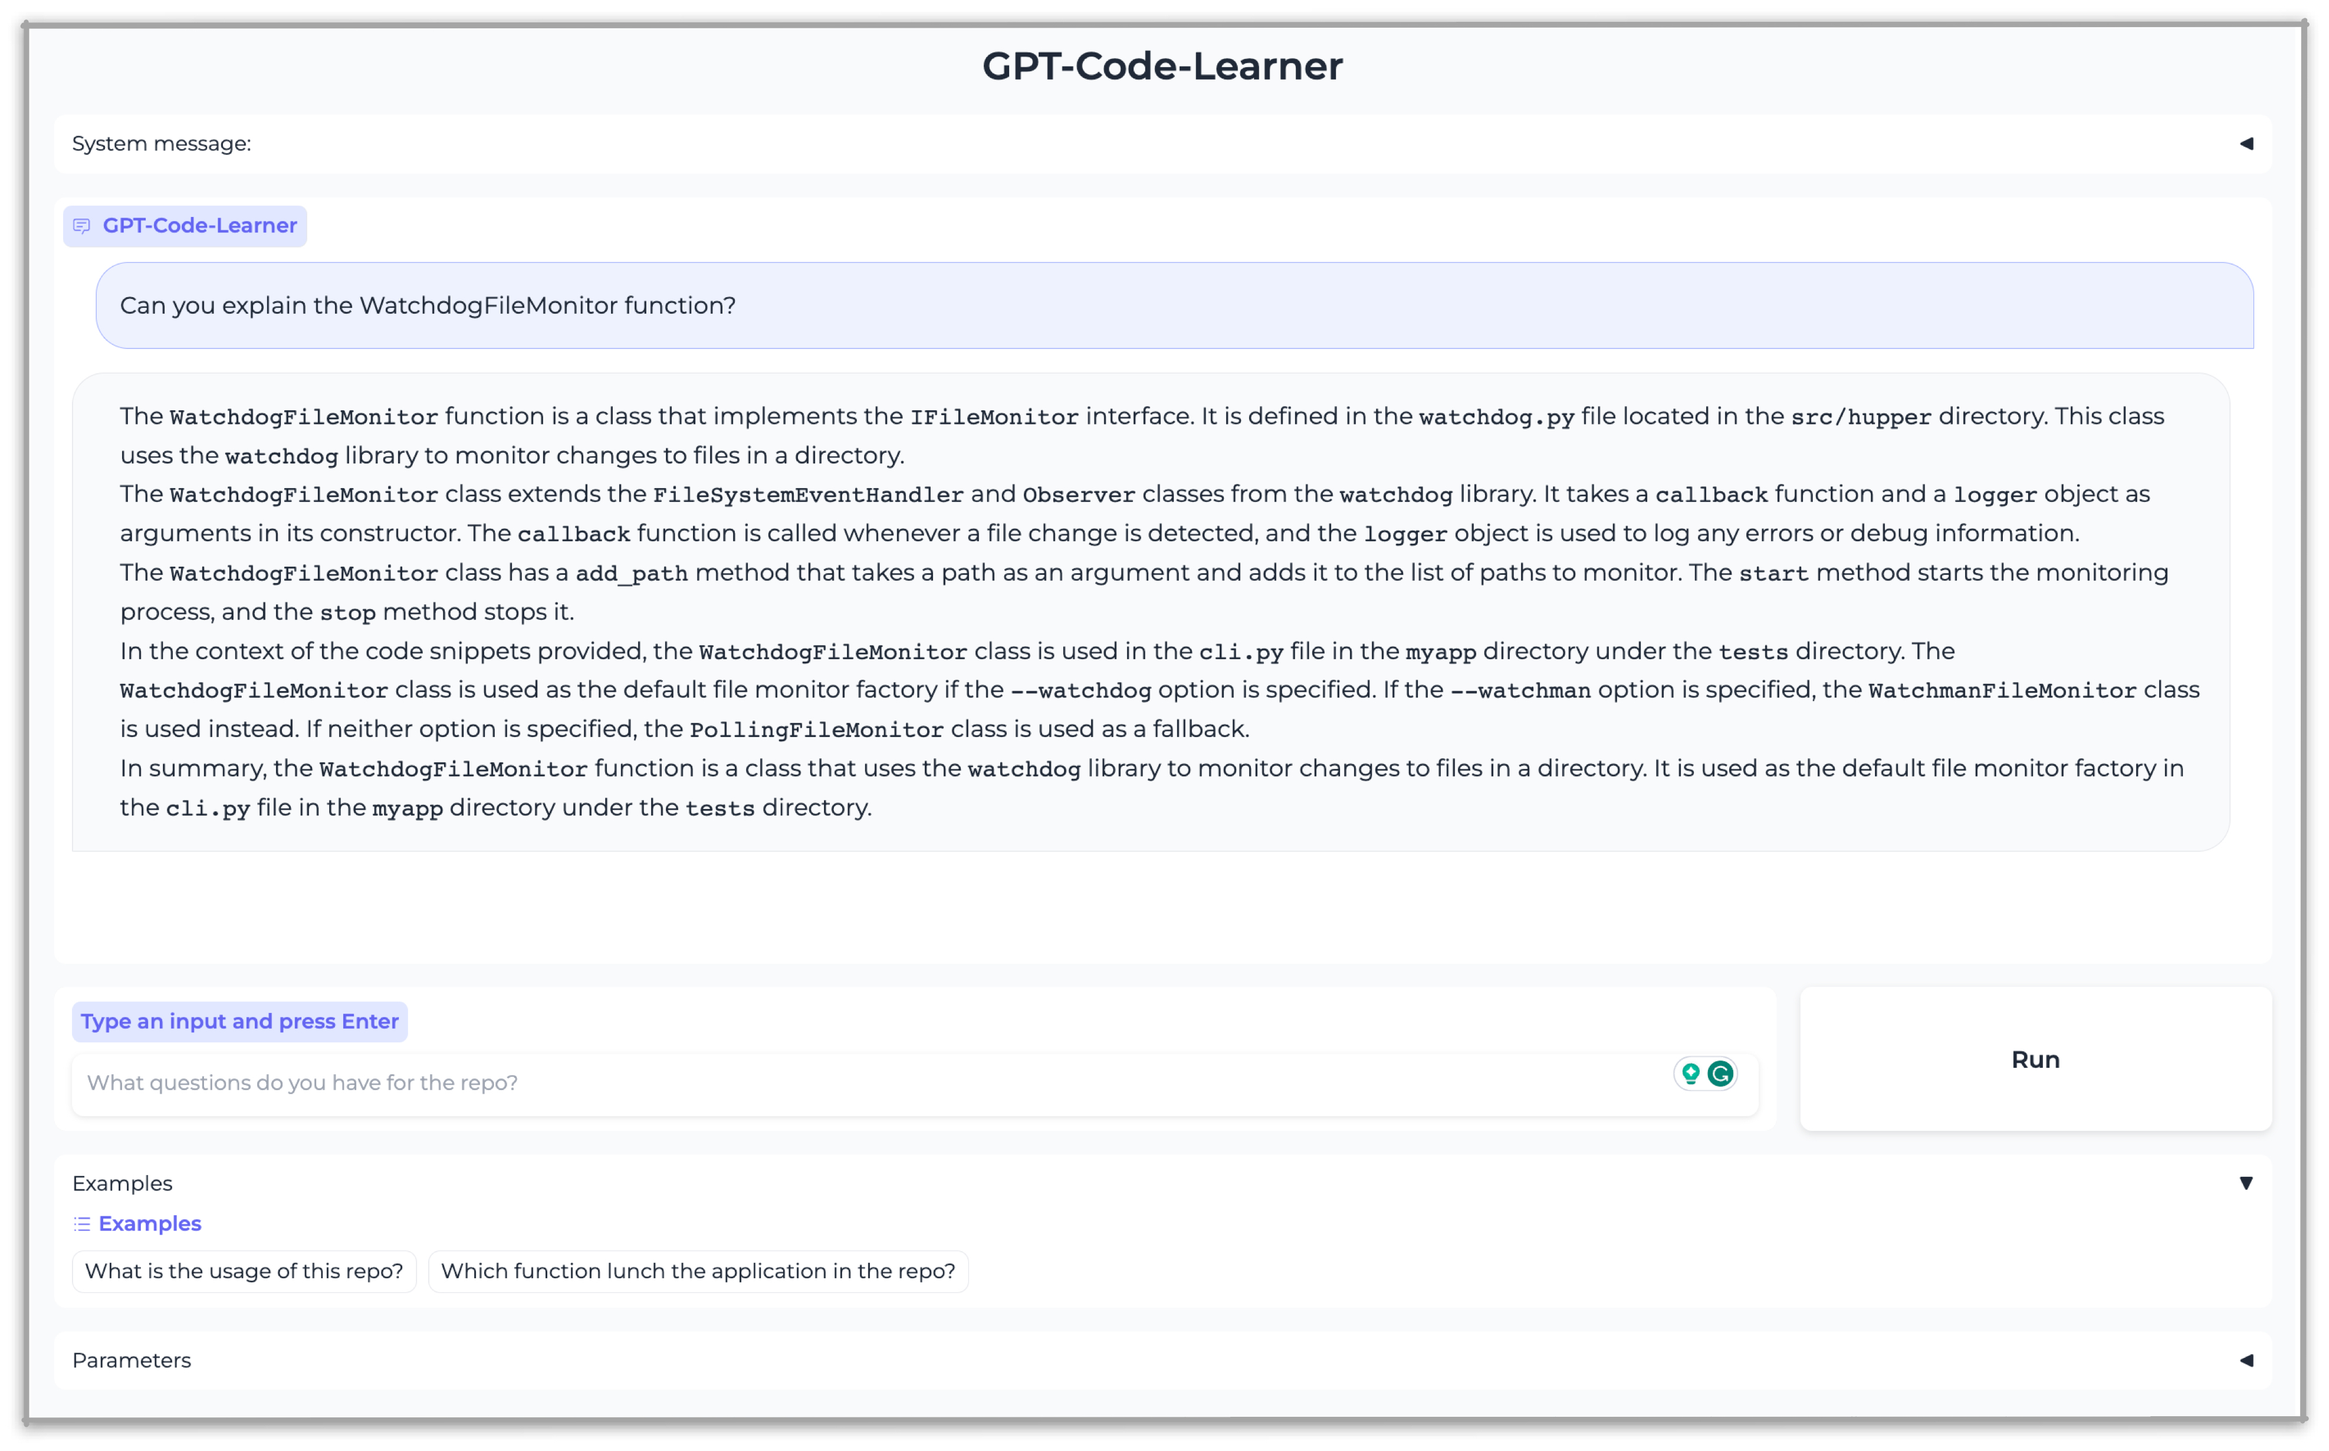
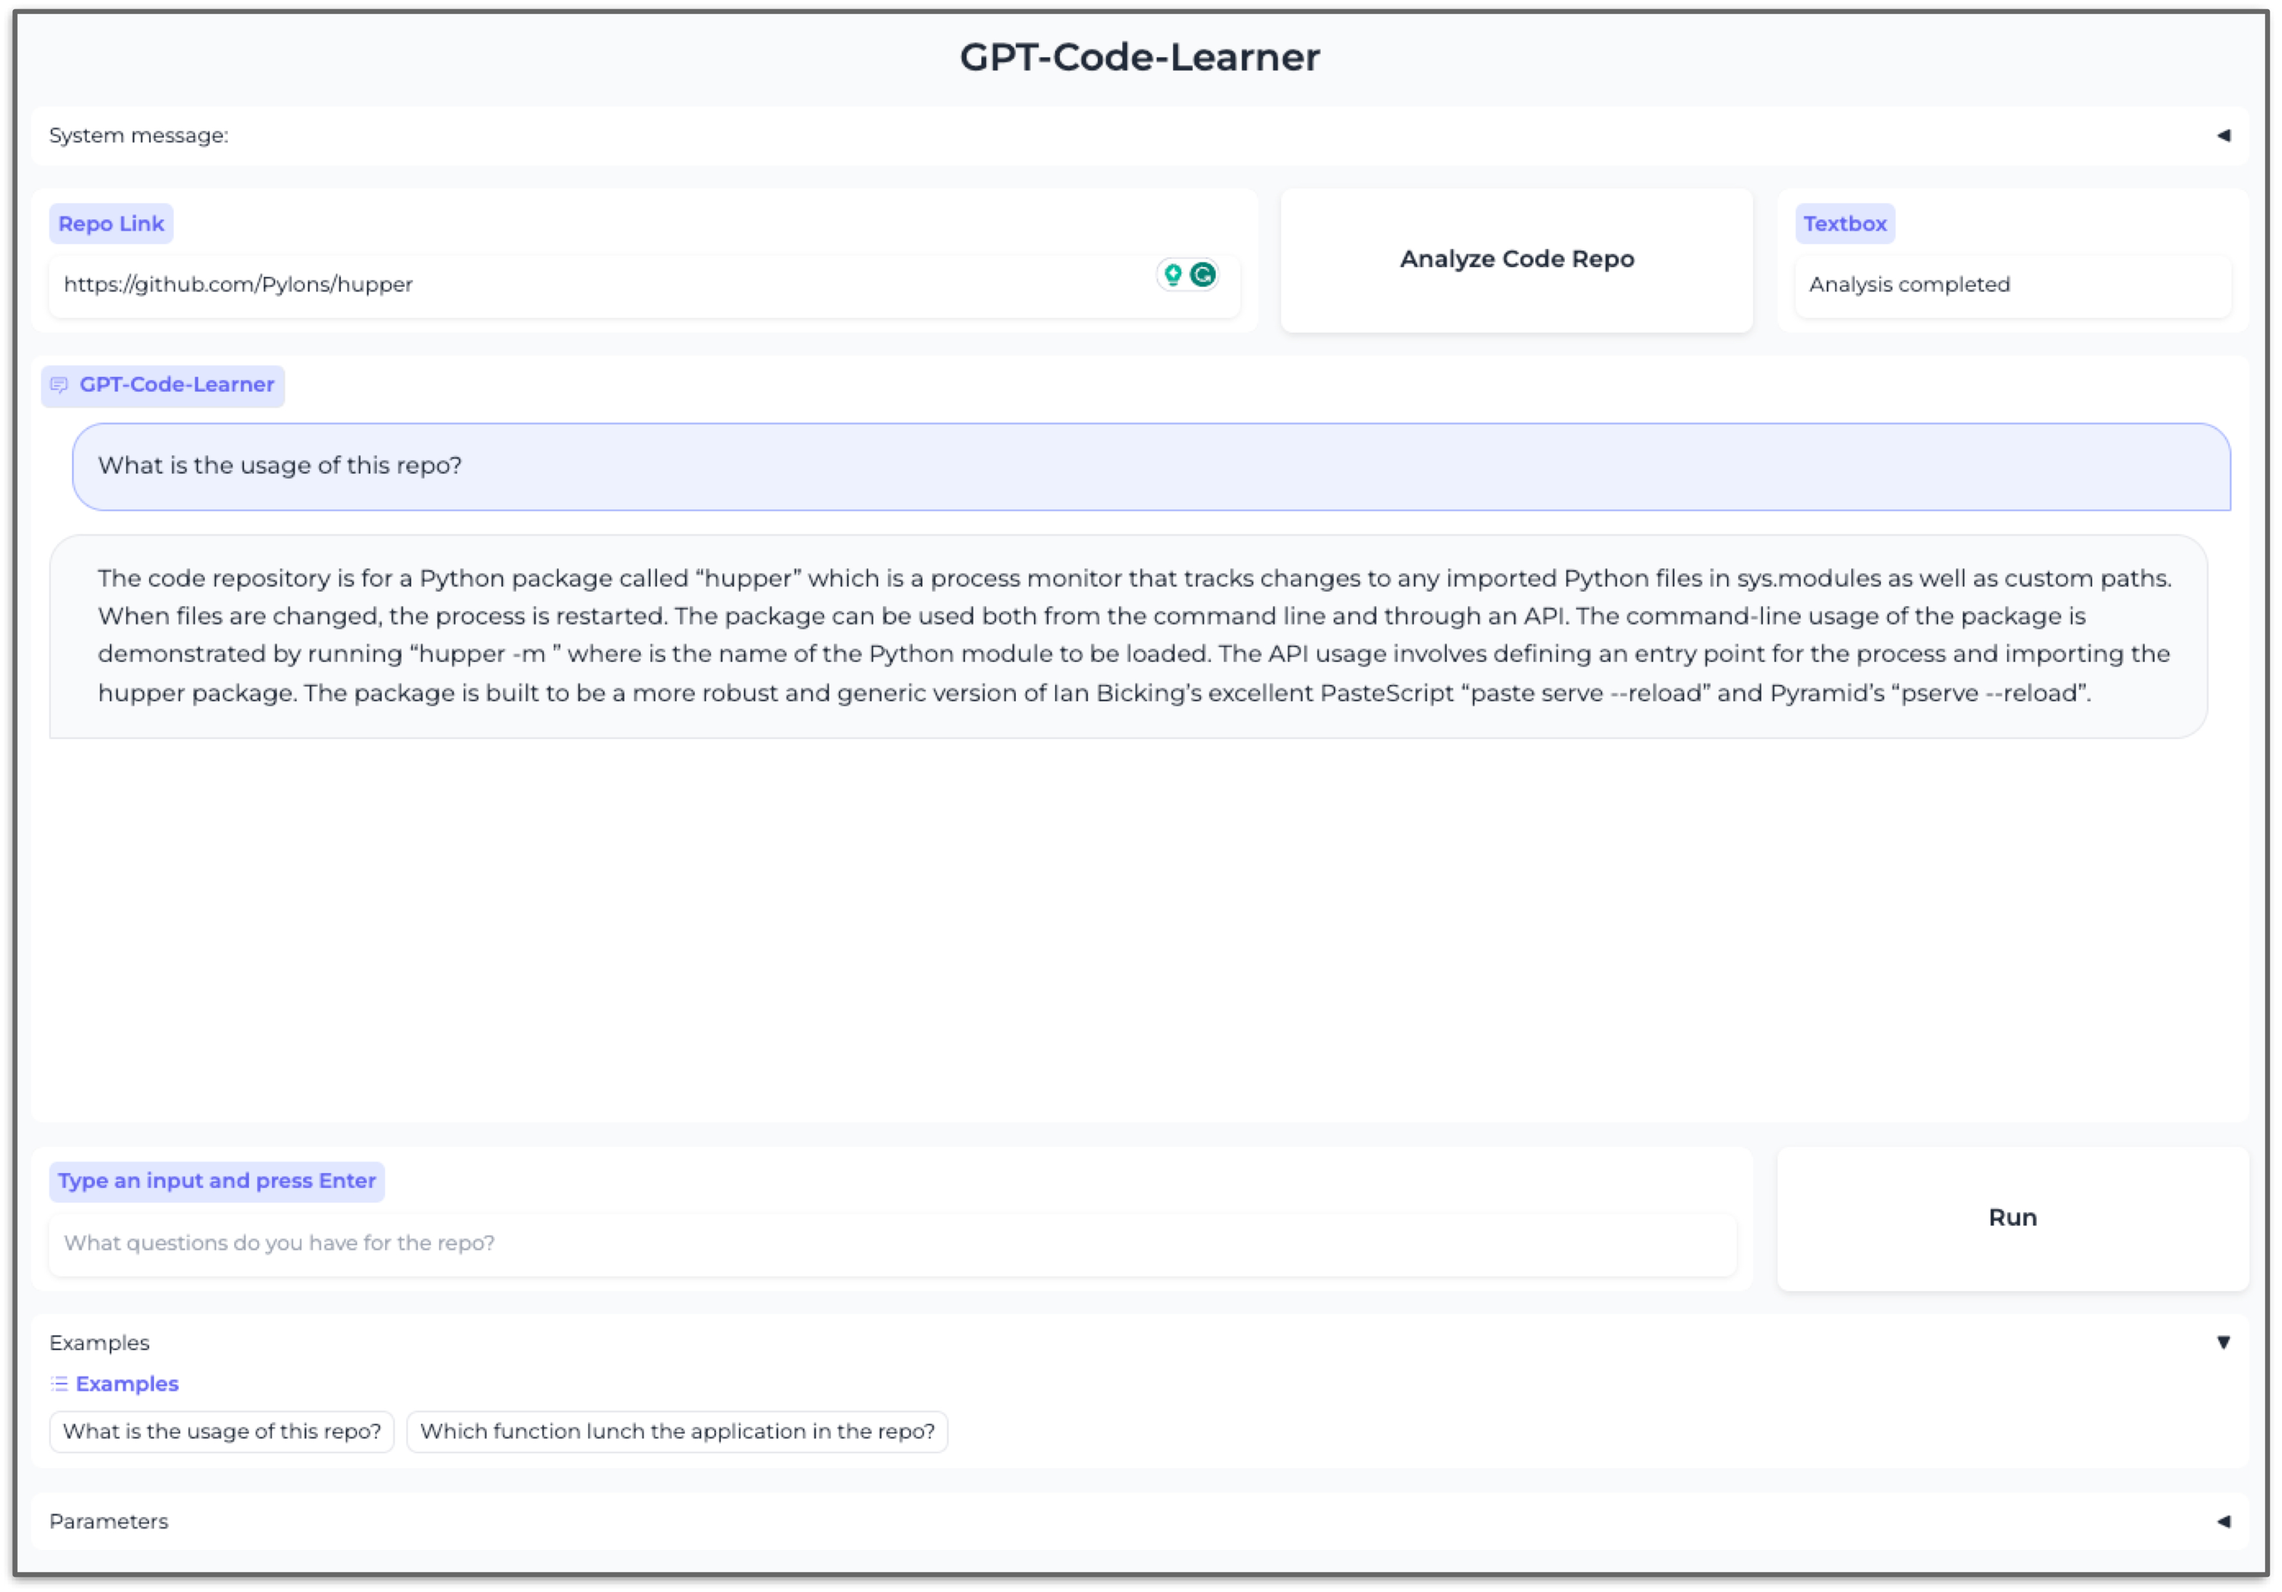
Update one-click repo analyzer

diff --git a/code_learner.py b/code_learner.py
@@ -3,9 +3,8 @@ import json
 import requests
 import os
 from termcolor import colored
-from repo_parser import get_readme, get_repo_structure
+from repo_parser import clone_repo, generate_or_load_knowledge_from_repo
 import tool_planner
-
 
 llm_type = os.environ.get('LLM_TYPE', "local")
 OPENAI_API_KEY = os.environ.get("OPENAI_API_KEY", "null")
@@ -18,27 +17,15 @@ else:
 
 code_repo_path = "./code_repo"
 
-readme_info = get_readme(code_repo_path)
-if readme_info is not None:
-    readme_info = """The README.md file is as follows: """ + readme_info + "\n\n"
-
-repo_structure = get_repo_structure(code_repo_path)
-if repo_structure is not None:
-    repo_structure = """The repo structure is as follows: """ + get_repo_structure(code_repo_path) + "\n\n"
-
 init_system_prompt = """Now you are an expert programmer and teacher of a code repository. 
     You will be asked to explain the code for a specific task in the repo.
     You will be provided with some related code snippets or documents related to the question.
     Please think the explanation step-by-step.
     Please answer the questions based on your knowledge, and you can also refer to the provided related code snippets.
     The README.md file and the repo structure are also available for your reference.
-    If you need any details clarified, please ask questions until all issues are clarified.
+    If you need any details clarified, please ask questions until all issues are clarified. \n\n
 """
 system_prompt = init_system_prompt
-if readme_info:
-    system_prompt += readme_info
-if repo_structure:
-    system_prompt += repo_structure
 
 
 def generate_response(system_msg, inputs, top_p, temperature, chat_counter, chatbot=[], history=[]):
@@ -65,9 +52,9 @@ def generate_response(system_msg, inputs, top_p, temperature, chat_counter, chat
         initial_message = [{"role": "user", "content": f"{inputs}"}]
         multi_turn_message = []
     else:
-        initial_message = [{"role": "system", "content": init_system_prompt},
+        initial_message = [{"role": "system", "content": system_msg},
                            {"role": "user", "content": f"{inputs}"}]
-        multi_turn_message = [{"role": "system", "content": system_prompt}]
+        multi_turn_message = [{"role": "system", "content": init_system_prompt}]
 
     if chat_counter == 0:
         payload = {
@@ -158,6 +145,18 @@ def set_visible_true():
     return gr.update(visible=True)
 
 
+def analyze_repo(repo_url, progress=gr.Progress()):
+    progress(0, desc="Starting")
+    repo_information = clone_repo(repo_url, progress)
+
+    progress(0.6, desc="Building Knowledge Base")
+    generate_or_load_knowledge_from_repo()
+
+    if repo_information is not None:
+        return init_system_prompt + repo_information, "Analysis completed"
+    else:
+        return init_system_prompt, "Analysis failed"
+
 def main():
     title = """<h1 align="center">GPT-Code-Learner</h1>"""
 
@@ -183,6 +182,21 @@ def main():
                     value="Refresh the app to reset system message",
                     visible=False
                 )
+            # Add text box for the repo link with submit button
+            with gr.Row():
+                with gr.Column(scale=6):
+                    repo_url = gr.Textbox(
+                        placeholder="Repo Link",
+                        lines=1,
+                        label="Repo Link"
+                    )
+                with gr.Column(scale=2):
+                    repo_link_btn = gr.Button("Analyze Code Repo").style(full_width=True)
+                with gr.Column(scale=2):
+                    analyze_progress = gr.Textbox(label="Status")
+
+            repo_link_btn.click(analyze_repo, [repo_url], [system_msg, analyze_progress])
+
             with gr.Row():
                 with gr.Column(scale=10):
                     chatbot = gr.Chatbot(

diff --git a/repo_parser.py b/repo_parser.py
@@ -8,6 +8,32 @@ from knowledge_base import load_documents, load_code_chunks, supabase_vdb, local
 from collections import deque
 from pathlib import Path
 import util
+import subprocess
+import gradio as gr
+
+def clone_repo(git_url, progress=gr.Progress(), code_repo_path="./code_repo"):
+    print(progress(0.1, desc="Cloning the repo..."))
+    print("Cloning the repo: ", git_url)
+    # Check if directory exists
+    if not os.path.exists(code_repo_path):
+        os.makedirs(code_repo_path)
+    try:
+        subprocess.check_call(['git', 'clone', git_url], cwd=code_repo_path)
+        print(f"Successfully cloned {git_url} into {code_repo_path}")
+    except subprocess.CalledProcessError as e:
+        print(f"Error: {e.output}")
+
+    print(progress(0.3, desc="Summarizing the repo..."))
+    readme_info = get_readme(code_repo_path)
+    if readme_info is not None:
+        readme_info = """The README.md file is as follows: """ + readme_info + "\n\n"
+
+    print(progress(0.4, desc="Parsing repo structure..."))
+    repo_structure = get_repo_structure(code_repo_path)
+    if repo_structure is not None:
+        repo_structure = """The repo structure is as follows: """ + get_repo_structure(code_repo_path) + "\n\n"
+
+    return readme_info + repo_structure
 
 
 def split_file_content_by_function(filepath, file_ext):
@@ -176,6 +202,7 @@ def generate_or_load_knowledge_from_repo(dir_path="./code_repo"):
                        '.vscode']
         knowledge = generate_knowledge_from_repo(dir_path, ignore_list)
         vdb = local_vdb(knowledge, vdb_path=vdb_path)
+    print(colored("VDB generated!", "green"))
     return vdb
 
 

diff --git a/README.md b/README.md
@@ -30,7 +30,7 @@ If you want to run the whole program locally, please change the following line i
 ```
 LLM_TYPE="local"
 ```
-3. clone the repo you want to learn into `code_repo` folder:
+3. Put the repo url (e.g., Github link) in the `Repo Link` textbox and click `Analyze Code Repo` button in the GUI. Or manually clone the repo you want to learn into `code_repo` folder:
 ```
 cd code_repo
 git clone <repo_url>
